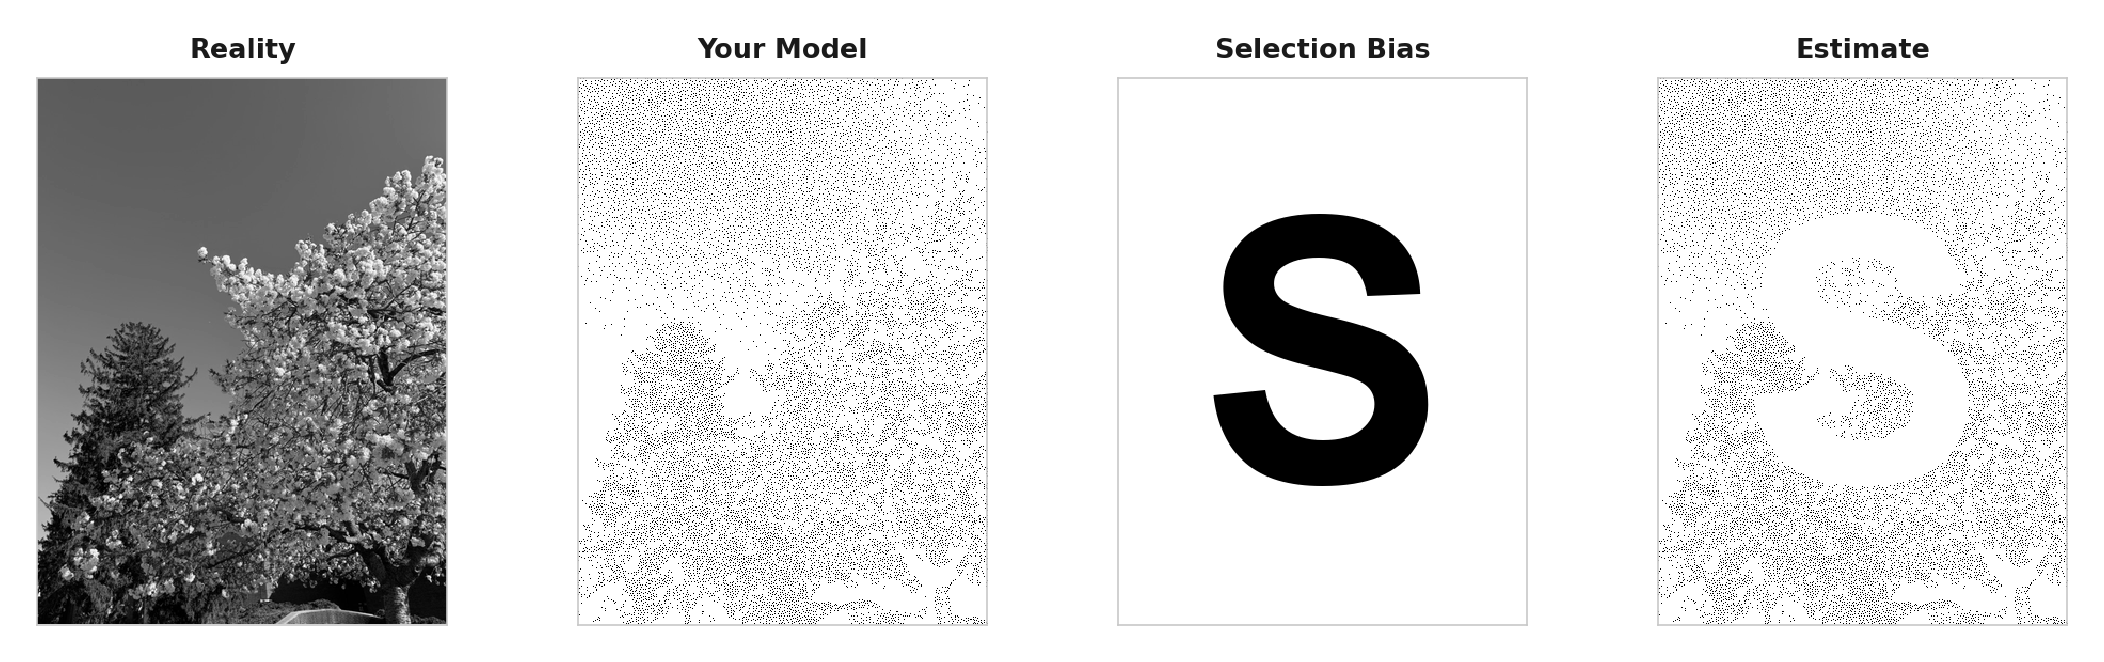
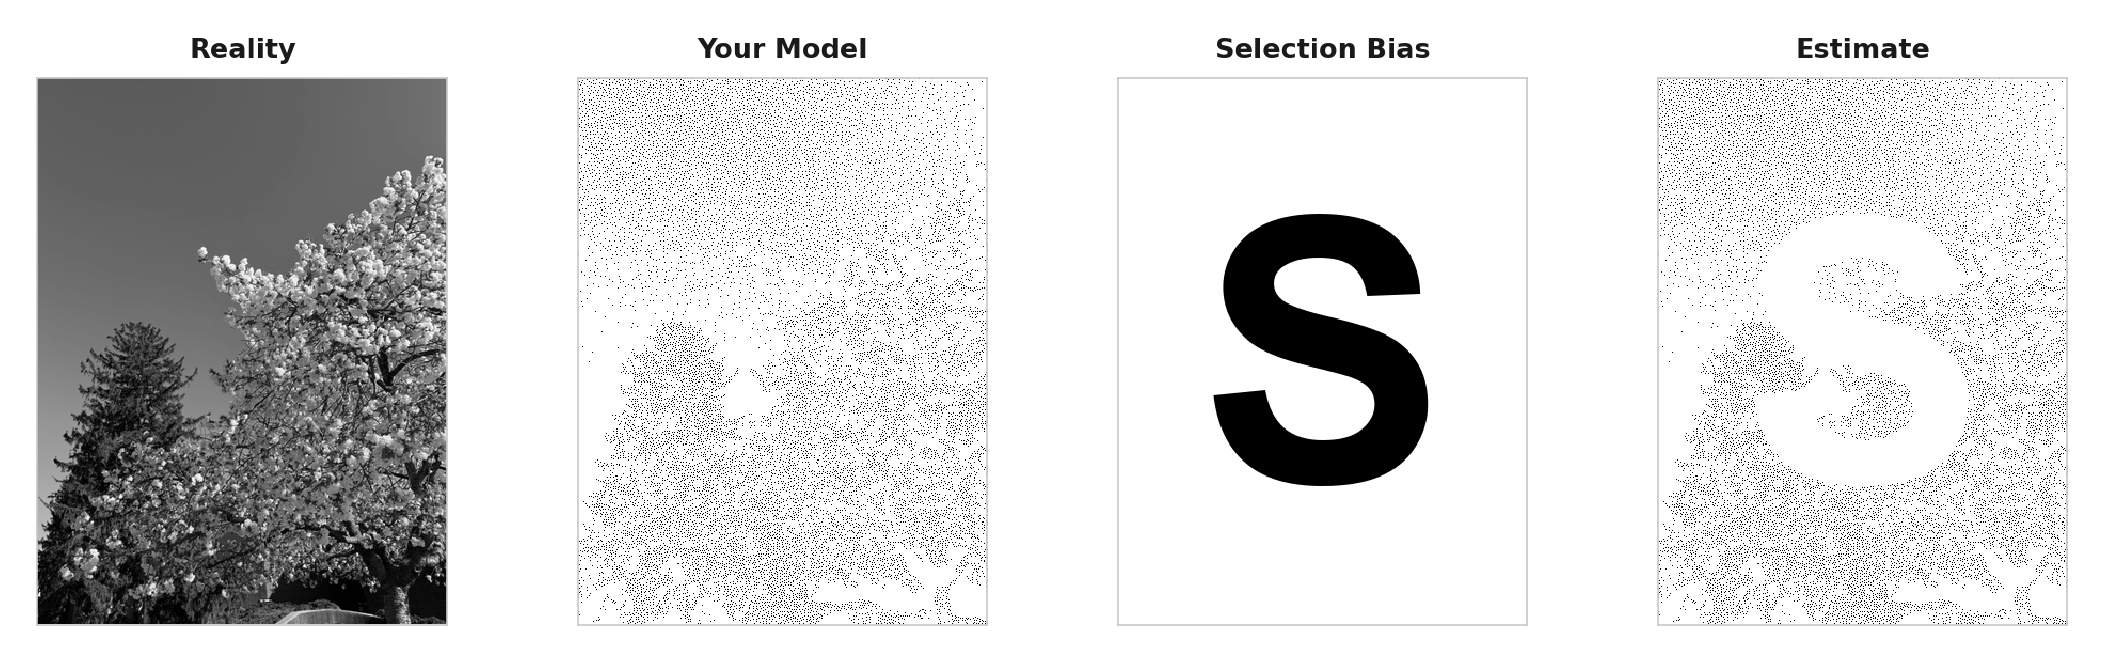
Add change to quarto file

diff --git a/index.html b/index.html
@@ -82,7 +82,7 @@ Figure&nbsp;1: Statistics meme demonstrating selection bias
 </section>
 <section id="explanation" class="level3">
 <h3 class="anchored" data-anchor-id="explanation">Explanation</h3>
-<p>This meme demonstrates selection bias by showing how systematic missing data patterns distort our understanding of reality. The original image (Reality) represents the true population, while the stippled version (Your Model) shows our data collection. When selection bias removes data points in a systematic “S” pattern, the resulting estimate becomes biased and no longer represents the true population, just as missing data in real-world studies can lead to incorrect conclusions.</p>
+<p>This meme shows how systematic missing data patterns distort our understanding of reality. The first panel shows the original image, which indicates the true population. The second panel shows the stippled image, which transforms the original image into a stippled image. The third panel shows the selection bias image, which removes data points in a systematic “S” pattern. The fourth panel shows the estimate image, which is the result of the selection bias. When selection bias removes data points in a systematic “S” pattern, the resulting estimate becomes biased and no longer represents the true population, just as missing data in real-world studies can lead to incorrect conclusions.</p>
 </section>
 </section>
 
